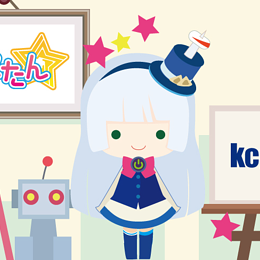
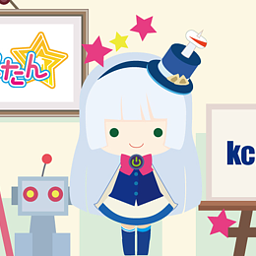
fix: resize to 256x256

diff --git a/blend.js b/blend.js
@@ -4,7 +4,7 @@ import { MyFilter } from './myfilter.js';
 const color = 0x909000;
 
 // 絵の縦横サイズ
-const imgSize = 260;
+const imgSize = 256;
 
 let app = new PIXI.Application({ antialias: true, width: imgSize * 3, height: imgSize * 2 });
 
